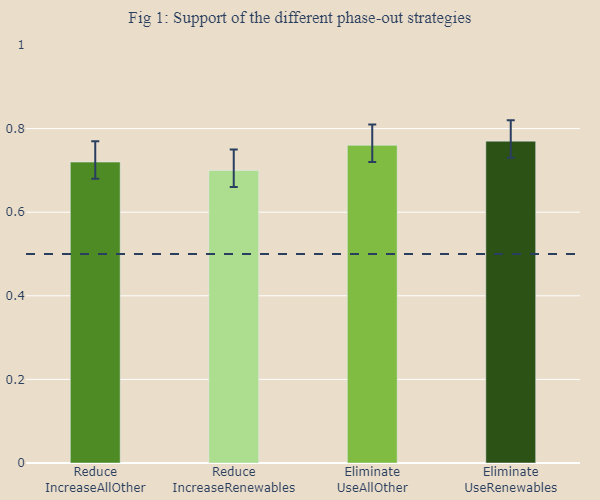
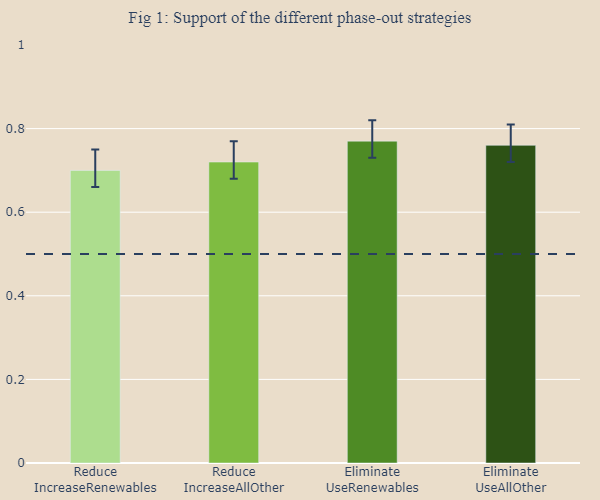
Added some small stuff

diff --git a/out/tables/estimation_results.tex b/out/tables/estimation_results.tex
@@ -5,7 +5,7 @@
 \textbf{Model:}                             &       OLS        & \textbf{  Adj. R-squared:    } &     0.021   \\
 \textbf{Method:}                            &  Least Squares   & \textbf{  F-statistic:       } &     76.82   \\
 \textbf{Date:}                              & Mon, 04 Sep 2023 & \textbf{  Prob (F-statistic):} &  2.66e-57   \\
-\textbf{Time:}                              &     22:14:24     & \textbf{  Log-Likelihood:    } &   -792.60   \\
+\textbf{Time:}                              &     22:24:30     & \textbf{  Log-Likelihood:    } &   -792.60   \\
 \textbf{No. Observations:}                  &        1380      & \textbf{  AIC:               } &     1627.   \\
 \textbf{Df Residuals:}                      &        1359      & \textbf{  BIC:               } &     1737.   \\
 \textbf{Df Model:}                          &          20      & \textbf{                     } &             \\

diff --git a/developer/final/plot.py b/developer/final/plot.py
@@ -15,7 +15,7 @@ def attribute_support(df, attribute):
     df = df[[attribute, 'support']]
     df['support'] = df['support'].astype(int)
 
-    categories = df[attribute].unique()
+    categories = ['Eliminate&UseAllOther', 'Eliminate&UseRenewables', 'Reduce&IncreaseAllOther', 'Reduce&IncreaseRenewables']
 
     support = {"Attribute Level": [], "Value": [], "CI_lower": [], "CI_upper": []}
     
@@ -32,10 +32,6 @@ def attribute_support(df, attribute):
         support["CI_upper"].append((mean + confidence_interval).round(2))
 
     df = pd.DataFrame(support)
-
-    new_order = [2, 0, 1, 3]
-
-    df = df.iloc[new_order]
 
     color_scale = ["rgb(173, 221, 142)", "rgb(127, 188, 65)", "rgb(78, 139, 37)", "rgb(45, 82, 21)"]
 

diff --git a/developer/final/task_final.py b/developer/final/task_final.py
@@ -80,6 +80,8 @@ def task_create_results_table_python(depends_on, produces):
     with open(produces, "w") as f:
         f.writelines(table)
 
+        
+
 
 
 
